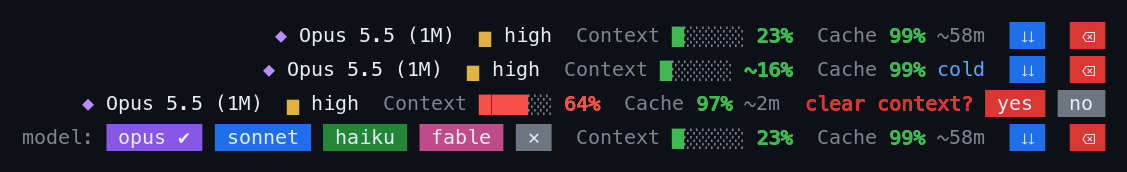
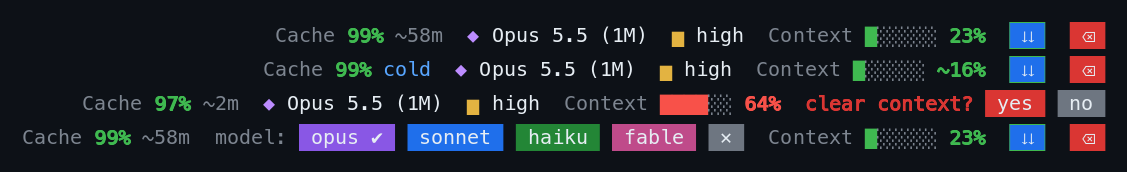
context-bar: show the cache left of the model

diff --git a/context-bar/hooks/register.tsx b/context-bar/hooks/register.tsx
@@ -555,7 +555,7 @@ export const register: Register = on => {
         </Box>
       )
 
-    const blocks = [modelLength, barLength, cacheLength, actionsLength(confirming), modesText.length].filter(
+    const blocks = [cacheLength, modelLength, barLength, actionsLength(confirming), modesText.length].filter(
       n => n > 0,
     )
     const rightLength = blocks.reduce((sum, n) => sum + n, 0) + BLOCK_GAP * (blocks.length - 1)
@@ -563,9 +563,9 @@ export const register: Register = on => {
     if (fitsInRow(columns, rightLength)) {
       return (
         <Box flexShrink={0} gap={BLOCK_GAP}>
+          {cacheBlock}
           {modelBlock}
           {bar}
-          {cacheBlock}
           {actions}
           {beneath}
         </Box>
@@ -574,9 +574,9 @@ export const register: Register = on => {
 
     return (
       <Box flexShrink={0} flexDirection="column" alignItems="flex-end">
+        {cacheBlock}
         {modelBlock}
         {bar}
-        {cacheBlock}
         {actions}
         {beneath}
       </Box>

diff --git a/context-bar/README.md b/context-bar/README.md
@@ -4,11 +4,11 @@ A footer for Claude Code. In the slot right of the hint line under the prompt, i
 
 ![context-bar, a rendered preview](../docs/context-bar.png)
 
+- **Cache**: how much of the last prompt the cache served, and roughly how long until it expires: `99% ~58m`, then `cold` once it has lapsed or after a compaction.
+  - Whether your account caches for 5 minutes or an hour is worked out from the requests themselves, and remembered between sessions.
 - **Model and effort**: `◆ Opus 5.5 (1M)  ▆ high`, colored by model family and by effort level. Click either one to get a row of chips and pick another. This runs `/model` or `/effort` for you.
 - **Context**: how full the context window is, in a bar that is green under 30%, orange under 60% and red after that.
   - After a compaction or a `/clear`, and in a fresh session, Claude Code has no measured figure until the next response. Meanwhile the bar shows Claude Code's own local estimate (the one `/context` makes), marked with `~`.
-- **Cache**: how much of the last prompt the cache served, and roughly how long until it expires: `99% ~58m`, then `cold` once it has lapsed or after a compaction.
-  - Whether your account caches for 5 minutes or an hour is worked out from the requests themselves, and remembered between sessions.
 - **Compact `⇊` and clear `⌫`**: one click asks first (`clear context? yes no`). The question goes away by itself after five seconds, so a stray click does nothing.
 
 On a narrow terminal the labels shorten, and when one row can't hold everything the blocks stack.
